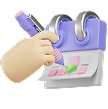
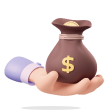
회원가입 완료

diff --git a/web/contents/SignUpSelection_new.html b/web/contents/SignUpSelection_new.html
@@ -42,7 +42,7 @@
 
         <!-- 퍼블 확인용: 공통 인클루드 js -->
         <script src="../js/include.js"></script>
-        <link rel="stylesheet" type="text/css" href="../../cubersc/template/user/css/youth.css" />
+        <link rel="stylesheet" type="text/css" href="../../cubersc/template/user/css/longterm.css" />
     </head>
     <body>
         <!-- [S] 퍼블 확인용: 헤더 인클루드 -->
@@ -108,13 +108,13 @@
                                                             </ul>
                                                         </div>
                                                     </li>
-                                                    <!-- [S]: 퍼블 추가 -->
+                                                    <!-- ⭐[S]: 퍼블 추가 -->
                                                     <li>
                                                         <div class="in">
                                                             <div class="box_top">
                                                                 <div class="box_img"><img src="../../cubersc/template/user/img/sub/img_figure_join03.png" alt="" /></div>
                                                                 <div class="box_line mw-none navy">
-                                                                    <a href="javascript:void(0);" class="line"><span>청년간부내일준비적금 가입</span> </a>
+                                                                    <a href="javascript:void(0);" class="line"><span>장기간부도약적금 가입</span> </a>
                                                                 </div>
                                                             </div>
                                                         </div>
@@ -134,7 +134,7 @@
                                                             </ul>
                                                         </div>
                                                     </li>
-                                                    <!-- [E]: 퍼블 추가 -->
+                                                    <!-- ⭐[E]: 퍼블 추가 -->
                                                     <li>
                                                         <div class="in">
                                                             <div class="box_top">

diff --git a/cubersc/template/user/css/longterm.css b/cubersc/template/user/css/longterm.css
@@ -172,6 +172,12 @@
 .receipt .tline-b .inp .war-txt { margin-top: 5px; display: flex; color: var(--color-6); font-size: var(--font-16); }
 .receipt .tline-b .inp .war-txt span {padding-left: 5px;padding-bottom: 0}
 
+
+/*---------------------------------------------
+    #SignUpSelection_new
+---------------------------------------------*/
+.list_half_cardnoti > li .box_line.navy .line { background-color: #3b3772; }
+
 /*---------------------------------------------
     반응형
 ---------------------------------------------*/
@@ -213,6 +219,10 @@
   /* step3-팝업 */
   .longterm .aline:not(.half_aline) .inp select {width :360px;}
   .longterm .h-win .aline-b:not(.birth-d) input[type="text"] {width :360px;}
+  /*---------------------------------------------
+      #SignUpSelection_new
+  ---------------------------------------------*/
+  .list_half_cardnoti > li .box_line.mw-none .line { max-width: none; width:auto; padding: 0 15px; }
 }
 
 /****** MO에서만 */
@@ -283,6 +293,20 @@
   .longterm .h-win .txt_lb {margin-left: 12px;}
   .longterm .h-win .colorful { top: 32px; height: 20px; }
   .help-w .aline-a.pt-0 {padding-top:0;}
+  /*---------------------------------------------
+      #SignUpSelection_new
+  ---------------------------------------------*/
+  .list_half_cardnoti {display: flex; flex-wrap:wrap; gap:30px;}
+  .list_half_cardnoti > li + li {margin-left:0}
+  .list_half_cardnoti > li {height: fit-content;}
+}
+
+@media screen and (max-width: 767px) {
+  /*---------------------------------------------
+      #SignUpSelection_new
+  ---------------------------------------------*/
+  .list_half_cardnoti {gap:26px;}
+  .list_half_cardnoti > li + li{margin:0 }
 }
 
 /****** MO */
